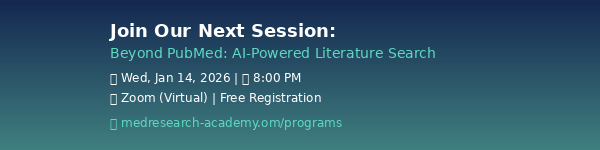
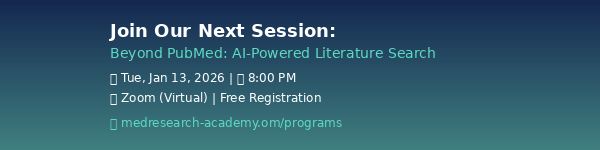
true message

Changed region(s): [[0.18, 0.48, 0.51, 0.5867]]

diff --git a/create_email_signature.py b/create_email_signature.py
@@ -32,7 +32,7 @@ except:
 x_start = 110
 draw.text((x_start, 20), 'Join Our Next Session:', fill='white', font=font_title)
 draw.text((x_start, 45), 'Beyond PubMed: AI-Powered Literature Search', fill='#5DD9C1', font=font_body)
-draw.text((x_start, 70), '📅 Wed, Jan 14, 2026 | 🕐 8:00 PM', fill='white', font=font_small)
+draw.text((x_start, 70), '📅 Tue, Jan 13, 2026 | 🕐 8:00 PM', fill='white', font=font_small)
 draw.text((x_start, 90), '💻 Zoom (Virtual) | Free Registration', fill='white', font=font_small)
 draw.text((x_start, 115), '🔗 medresearch-academy.om/programs', fill='#5DD9C1', font=font_small)
 
@@ -74,7 +74,7 @@ draw_sq.text((300, 330), 'Applications and Ethics', fill='#5DD9C1', font=font_sq
 
 # Date box
 draw_sq.rounded_rectangle([(50, 380), (550, 480)], radius=15, fill='#2C5F7F', outline='#5DD9C1', width=3)
-draw_sq.text((300, 410), '📅 Wednesday, January 14, 2026', fill='white', font=font_sq_small, anchor='mm')
+draw_sq.text((300, 410), '📅 Tuesday, January 13, 2026', fill='white', font=font_sq_small, anchor='mm')
 draw_sq.text((300, 445), '🕐 8:00 PM - 9:00 PM (Muscat Time)', fill='white', font=font_sq_small, anchor='mm')
 
 # QR code

diff --git a/create_flyer.py b/create_flyer.py
@@ -57,8 +57,8 @@ draw.rounded_rectangle([(box_x, box_y), (box_x + box_w, box_y + box_h)],
                        radius=20, fill='#2C5F7F', outline='#5DD9C1', width=4)
 draw.text((box_x + 30, box_y + 20), '📅 Date & Time', fill='white', font=font_subtitle)
 draw.text((box_x + 30, box_y + 80), 'Date:', fill='white', font=font_body)
-draw.text((box_x + 30, box_y + 110), 'Wednesday, January', fill='white', font=font_body)
-draw.text((box_x + 30, box_y + 140), '14, 2026', fill='white', font=font_body)
+draw.text((box_x + 30, box_y + 110), 'Tuesday, January', fill='white', font=font_body)
+draw.text((box_x + 30, box_y + 140), '13, 2026', fill='white', font=font_body)
 draw.text((box_x + 30, box_y + 180), 'Time: 8:00 PM - 9:00 PM', fill='white', font=font_small)
 draw.text((box_x + 30, box_y + 210), '(Muscat Time)', fill='white', font=font_small)
 draw.text((box_x + 30, box_y + 240), 'Platform: Zoom (Virtual)', fill='white', font=font_small)

diff --git a/create_instagram_story.py b/create_instagram_story.py
@@ -57,7 +57,7 @@ draw.text((540, 1190), 'MD, MSc, FRCPC, ABIM', fill='#5DD9C1', font=font_small, 
 # Date & Time - prominent box
 box_y = 1260
 draw.rounded_rectangle([(90, box_y), (990, box_y + 200)], radius=20, fill='#2C5F7F', outline='#5DD9C1', width=5)
-draw.text((540, box_y + 40), '📅 Wednesday, January 14, 2026', fill='white', font=font_body, anchor='mm')
+draw.text((540, box_y + 40), '📅 Tuesday, January 13, 2026', fill='white', font=font_body, anchor='mm')
 draw.text((540, box_y + 90), '🕐 8:00 PM - 9:00 PM', fill='white', font=font_body, anchor='mm')
 draw.text((540, box_y + 140), '💻 Zoom (Virtual)', fill='white', font=font_body, anchor='mm')
 

diff --git a/todo.md b/todo.md
@@ -56,3 +56,9 @@
 - [x] Generate functional QR code and add to flyer
 - [x] Create Instagram Story version of flyer (9:16 format)
 - [x] Design email signature graphics for session promotion
+- [x] Change session date to Tuesday, January 13, 2026
+- [x] Regenerate flyer with Tuesday date
+- [x] Regenerate Instagram Story with Tuesday date
+- [x] Regenerate email signature with Tuesday date
+- [x] Regenerate social media square with Tuesday date
+- [x] Update website announcements with new date
